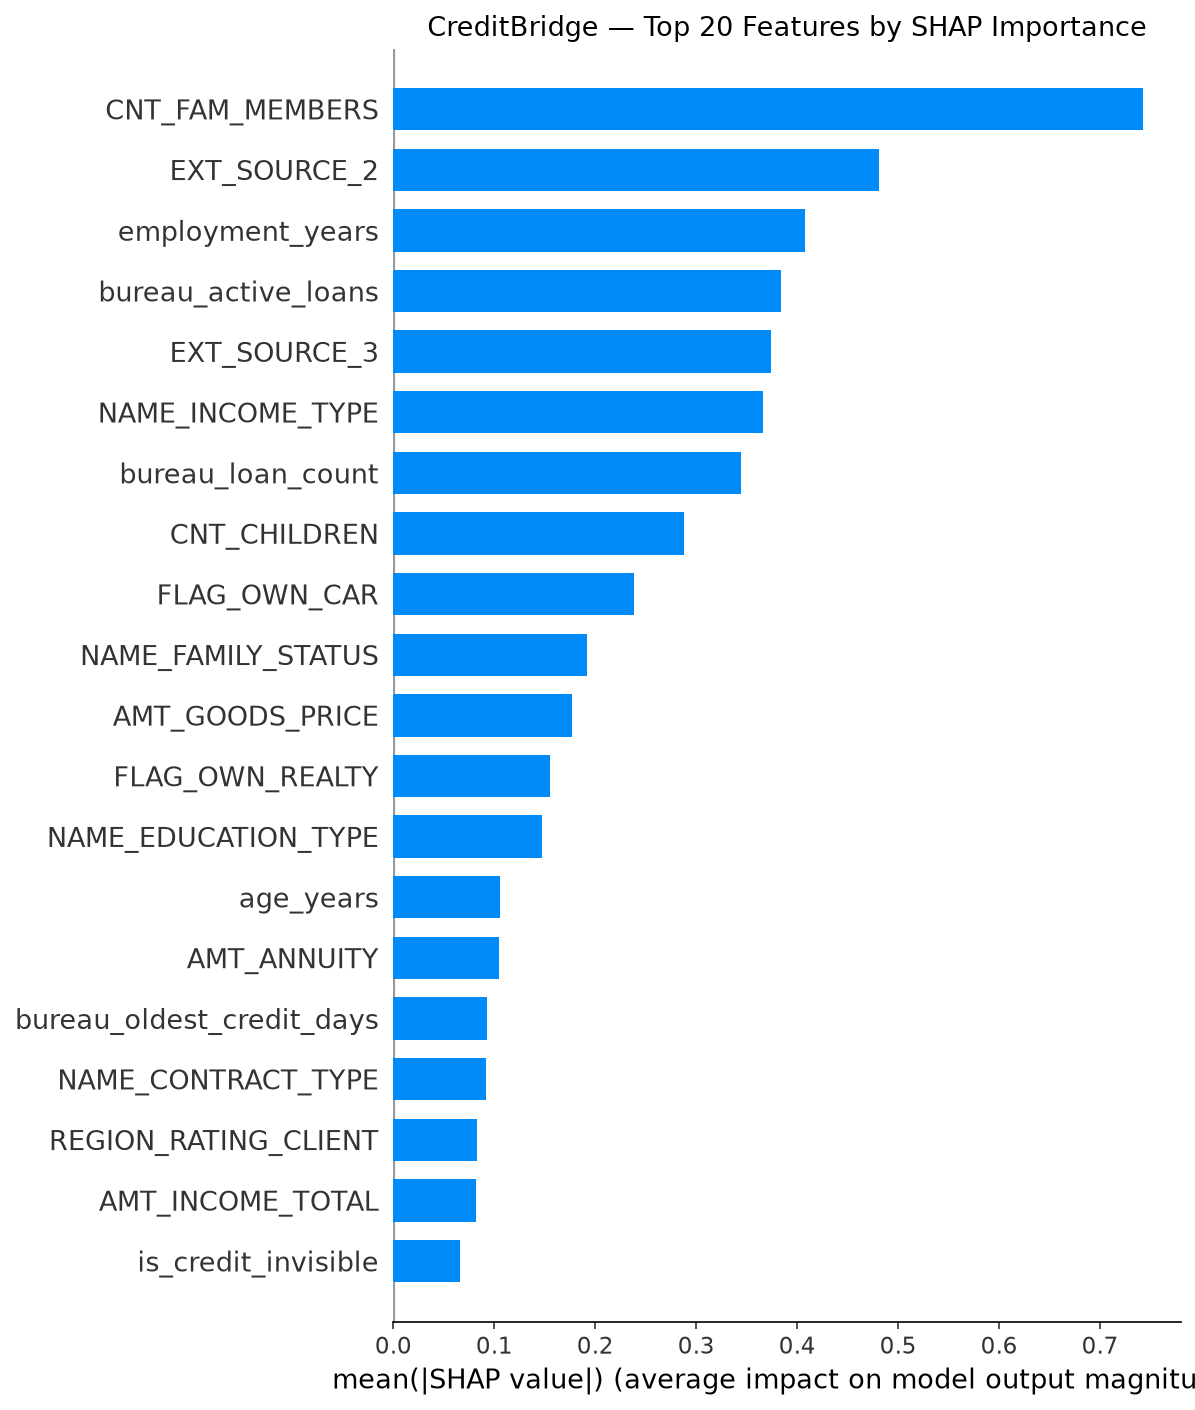
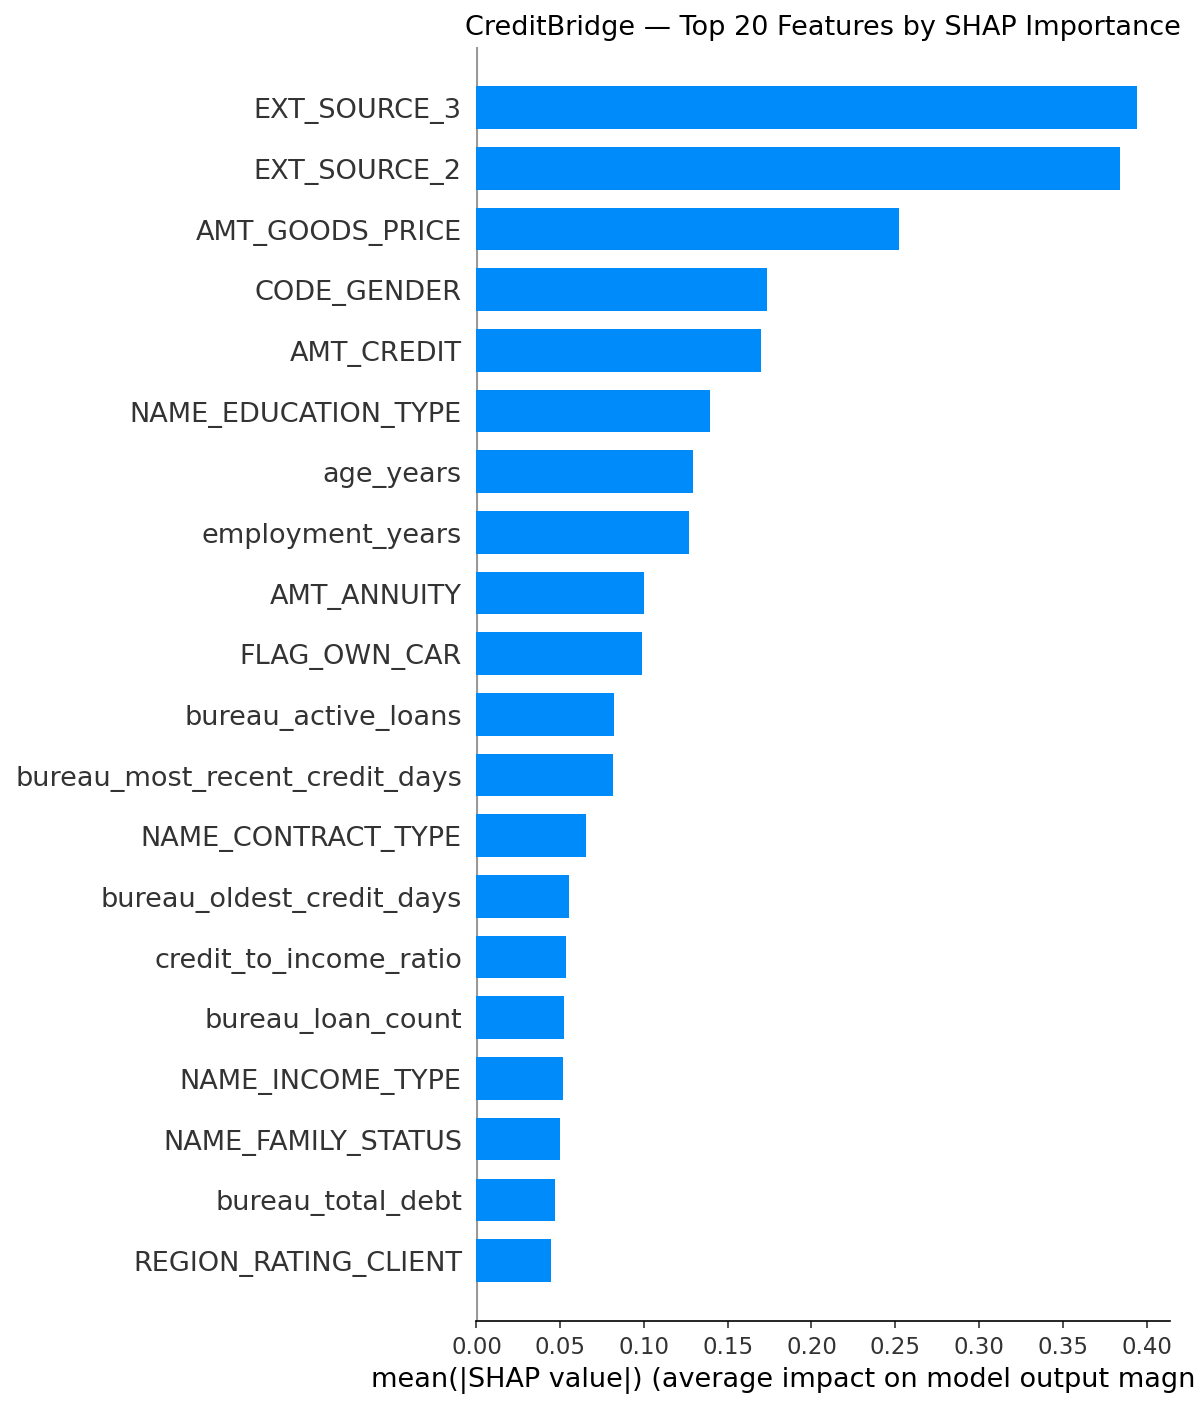
Enterprise Grade refactor: Added Probability Calibration, XGB native NaN handling, removed SMOTE

diff --git a/src/train.py b/src/train.py
@@ -4,10 +4,9 @@ import joblib
 from pathlib import Path
 from sklearn.model_selection import train_test_split
 from sklearn.preprocessing import LabelEncoder
-from sklearn.linear_model import LogisticRegression
+from sklearn.calibration import CalibratedClassifierCV
 from sklearn.metrics import roc_auc_score, classification_report
 from xgboost import XGBClassifier
-from imblearn.over_sampling import SMOTE
 
 BASE_DIR = Path(__file__).resolve().parent.parent
 DATA_PATH = BASE_DIR / "data" / "processed" / "features.csv"
@@ -31,18 +30,12 @@ def prepare_data():
         df[col] = le.fit_transform(df[col])  # type: ignore
         label_encoders[col] = le
 
-    # Drop ID column
-    df.drop(columns=["SK_ID_CURR"], inplace=True)
+    # Drop ID column and columns with huge missing data (>70%)
+    df.drop(columns=["SK_ID_CURR", "EXT_SOURCE_1"], errors="ignore", inplace=True)
 
-    # Drop columns with too many nulls
-    null_pct = df.isnull().mean()
-    drop_cols = null_pct[null_pct > 0.3].index.tolist()
-    if drop_cols:
-        print(f"  Dropping high-null columns: {drop_cols}")
-        df.drop(columns=drop_cols, inplace=True)
-
-    # Fill remaining nulls with median
-    df.fillna(df.median(numeric_only=True), inplace=True)
+    # WE DO NOT IMPUTE MISSING VALUES!
+    # XGBoost natively learns the optimal decision path for missing values (np.nan).
+    # This is critical for EXT_SOURCE_2 and EXT_SOURCE_3 which have many missing values.
 
     X = df.drop(columns=["TARGET"])
     y = df["TARGET"]
@@ -54,27 +47,14 @@ def prepare_data():
 def train():
     X, y, label_encoders = prepare_data()
 
-    # Time-honest split — no shuffling games
     X_train, X_test, y_train, y_test = train_test_split(
         X, y, test_size=0.2, random_state=42, stratify=y
     )
     print(f"\nTrain size: {len(X_train):,} | Test size: {len(X_test):,}")
 
-    # SMOTE on training set only — never on test
-    print("\nApplying SMOTE to training set...")
-    smote = SMOTE(random_state=42)
-    X_train_sm, y_train_sm = smote.fit_resample(X_train, y_train)  # type: ignore
-    print(f"  After SMOTE — Train size: {len(X_train_sm):,}")
+    # Calculate scale_pos_weight for imbalance
+    pos_weight = (len(y_train) - sum(y_train)) / sum(y_train)
 
-    # Baseline: Logistic Regression
-    print("\nTraining Logistic Regression baseline...")
-    lr = LogisticRegression(max_iter=1000, random_state=42)
-    lr.fit(X_train_sm, y_train_sm)
-    lr_pred = lr.predict_proba(X_test)[:, 1]
-    lr_auc = roc_auc_score(y_test, lr_pred)
-    print(f"  Logistic Regression ROC-AUC: {lr_auc:.4f}")
-
-    # XGBoost
     print("\nTraining XGBoost...")
     xgb = XGBClassifier(
         n_estimators=300,
@@ -82,30 +62,38 @@ def train():
         learning_rate=0.05,
         subsample=0.8,
         colsample_bytree=0.8,
+        scale_pos_weight=pos_weight,
         random_state=42,
         eval_metric="auc",
-        verbosity=0
+        verbosity=0,
+        use_label_encoder=False
     )
-    xgb.fit(X_train_sm, y_train_sm)
-    xgb_pred = xgb.predict_proba(X_test)[:, 1]
-    xgb_auc = roc_auc_score(y_test, xgb_pred)  # type: ignore
-    print(f"  XGBoost ROC-AUC: {xgb_auc:.4f}")
 
-    # Save best model, feature names, and label encoders
-    print("\nSaving XGBoost model and encoders...")
-    joblib.dump(xgb, MODEL_DIR / "creditbridge_model.pkl")
+    # Wrap in CalibratedClassifierCV to get true real-world probabilities
+    print("Calibrating probabilities (Isotonic Regression via 5-fold CV)...")
+    calibrated_xgb = CalibratedClassifierCV(estimator=xgb, method="isotonic", cv=5)
+    calibrated_xgb.fit(X_train, y_train)
+
+    calib_pred = calibrated_xgb.predict_proba(X_test)[:, 1]
+    xgb_auc = roc_auc_score(y_test, calib_pred)  # type: ignore
+    print(f"  Calibrated XGBoost ROC-AUC: {xgb_auc:.4f}")
+
+    # Extract the raw XGBoost model from the first CV fold for SHAP plotting
+    raw_xgb = calibrated_xgb.calibrated_classifiers_[0].estimator
+
+    # Save best models, feature names, and label encoders
+    print("\nSaving Models and artifacts...")
+    joblib.dump(calibrated_xgb, MODEL_DIR / "creditbridge_model.pkl")
+    joblib.dump(raw_xgb, MODEL_DIR / "creditbridge_xgb_raw.pkl")
     joblib.dump(list(X.columns), MODEL_DIR / "feature_names.pkl")
     joblib.dump(label_encoders, MODEL_DIR / "label_encoders.pkl")
-    print(f"  Model saved to models/creditbridge_model.pkl")
-    print(f"  Label encoders saved to models/label_encoders.pkl")
+    print(f"  Main Model saved to models/creditbridge_model.pkl")
+    print(f"  Raw XGB saved to models/creditbridge_xgb_raw.pkl")
 
-    print("\n--- Final Evaluation (XGBoost) ---")
-    xgb_labels = (xgb_pred >= 0.5).astype(int)
+    print("\n--- Final Evaluation (Calibrated XGBoost) ---")
+    xgb_labels = (calib_pred >= 0.5).astype(int)
     print(classification_report(y_test, xgb_labels))  # type: ignore
     print(f"ROC-AUC: {xgb_auc:.4f}")
-    print(f"\nBaseline LR AUC: {lr_auc:.4f}")
-    print(f"XGBoost AUC:     {xgb_auc:.4f}")
-    print(f"Improvement:     +{(xgb_auc - lr_auc):.4f}")
 
 if __name__ == "__main__":
     train()

diff --git a/app/app.py b/app/app.py
@@ -74,10 +74,14 @@ st.sidebar.markdown("---")
 st.sidebar.subheader("External Credit Scores")
 st.sidebar.caption(
     "Scores from external credit bureaus (0 = worst, 1 = best). "
-    "These are the model's most influential features. If unknown, leave at 0.5."
+    "If the applicant has no external history, check 'Unknown' to let the model use its learned missing-value logic."
 )
-ext_source_2 = st.sidebar.slider("External Score 2", 0.0, 1.0, 0.5, step=0.01)
-ext_source_3 = st.sidebar.slider("External Score 3", 0.0, 1.0, 0.5, step=0.01)
+
+ext2_unknown = st.sidebar.checkbox("Ext Source 2 Unknown", value=True)
+ext_source_2 = np.nan if ext2_unknown else st.sidebar.slider("External Score 2", 0.0, 1.0, 0.5, step=0.01)
+
+ext3_unknown = st.sidebar.checkbox("Ext Source 3 Unknown", value=True)
+ext_source_3 = np.nan if ext3_unknown else st.sidebar.slider("External Score 3", 0.0, 1.0, 0.5, step=0.01)
 
 st.sidebar.markdown("---")
 st.sidebar.subheader("Credit Bureau History")
@@ -186,7 +190,7 @@ if st.sidebar.button("Assess Credit Risk", type="primary"):
     st.caption(
         "Each bar shows how a feature pushed the prediction toward default (red/positive) "
         "or away from it (blue/negative). Values are in log-odds — the model's internal "
-        "scoring scale. The final probability shown above is the logistic transform of this sum."
+        "scoring scale. The final probability shown above is a calibrated transformation of this sum, representing true real-world risk."
     )
 
     shap_vals = explainer.shap_values(input_df)
@@ -222,7 +226,7 @@ else:
 
     **How it works:**
     - Enter applicant details including income, loan request, and any existing credit history
-    - XGBoost model predicts default probability (ROC-AUC: 0.716)
+    - Calibrated XGBoost model predicts real-world default probability
     - SHAP explainability shows exactly which factors drove the decision
     - Risk is categorized into Low / Medium / High tiers
 

diff --git a/src/explain.py b/src/explain.py
@@ -13,7 +13,7 @@ FIGURES_DIR.mkdir(parents=True, exist_ok=True)
 
 def generate_shap_plots():
     print("Loading model and data...")
-    model = joblib.load(MODEL_DIR / "creditbridge_model.pkl")
+    model = joblib.load(MODEL_DIR / "creditbridge_xgb_raw.pkl")
     feature_names = joblib.load(MODEL_DIR / "feature_names.pkl")
 
     df = pd.read_csv(DATA_PATH)
@@ -32,7 +32,6 @@ def generate_shap_plots():
 
     df.drop(columns=["SK_ID_CURR", "TARGET", "EXT_SOURCE_1"],
             errors="ignore", inplace=True)
-    df.fillna(df.median(numeric_only=True), inplace=True)
     df = df[feature_names]
 
     # Sample 2000 rows for SHAP speed